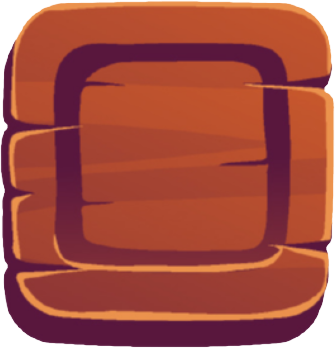
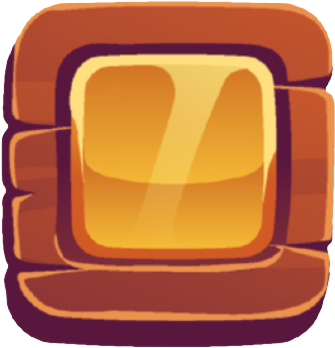
interface buttons positioned and css adjusted short playGame function added

diff --git a/style/menu.css b/style/menu.css
@@ -6,15 +6,30 @@
   flex-direction: column;
 }
 
-.title-container {
-  position: absolute;
-  top: 16px;
-  left: 16px;
+.menu-container {
+  display: flex;
+  flex-direction: column;
+  justify-content: space-between;
+  align-items: flex-start;
   z-index: 20;
+  height: 423px;
+}
+
+.play-container {
+  margin: 70px 0px 0px 70px;
+
+}
+
+.info-container {
+  display: flex;
+  justify-content: center;
+  align-items: center;
+  flex-direction: column;
+  margin: 8px;
+  gap: 16px;
 }
 
 .iface-overlay {
-  position: absolute;
   max-width: 960px;
   width: 100%;
   max-height: 540px;
@@ -34,34 +49,57 @@
   height: 100vh;
 }
 
-.f-screen-button {
-  position: absolute;
+.titleSign {
+  background-image: url('../img/interface/overlay/titleSign.png');
+  background-position: center;
+  background-repeat: no-repeat;
+  background-size: cover;
+  width: 274px;
+  height: 100px;
+  display: flex;
+  justify-content: center;
+  align-items: center;
+  margin: 8px;
+}
+
+.iface-btn {
   background-image: url('../img/interface/overlay/fullscreen_btn.png');
   background-position: center;
   background-repeat: no-repeat;
   background-size: cover;
-  width: 80px;
-  height: 80px;
-  top: 25px;
-  right: 25px;
   z-index: 20;
   cursor: pointer;
   border: none;
   background-color: transparent;
 }
 
-.f-screen-button span {
-  position: absolute;
-  right: 0;
-  left: 0;
-  bottom: -24px;
-}
-
-.f-screen-button:hover {
+.iface-btn:hover {
   transform: scale(1.1);
 }
 
-.f-screen-button:focus {
-  outline: 2px solid #65e8ef;
-  border-radius: 16px;
+.f-screen-btn {
+  position: absolute;
+  background-image: url('../img/interface/overlay/fullscreen_btn.png');
+  width: 60px;
+  height: 60px;
+  top: 8px;
+  right: 8px;
+}
+
+.play-btn {
+  background-image: url('../img/interface/overlay/play_btn.png');
+  width: 120px;
+  height: 140px;
+}
+
+.control-btn {
+  background-image: url('../img/interface/overlay/control_btn.png');
+  width: 60px;
+  height: 60px;
+}
+
+.info-btn {
+  background-image: url('../img/interface/overlay/info_btn.png');
+  width: 60px;
+  height: 60px;
 }

diff --git a/index.html b/index.html
@@ -28,13 +28,21 @@
 <body onload="init()">
 
   </div>
-    <button id="toggleFullScreen" class="f-screen-button" onclick="fullscreen()">
-      <span>Fullscreen</span>
-    </button>
   <div class="game-container" id="gameContainer">
     <div id="iface" class="iface-overlay">
-      <div id="titleContainer" class="title-container">
+      <div class="titleSign">
         <h1 id="title">Sharkie</h1>
+      </div>
+      <button id="toggleFullScreen" class="iface-btn f-screen-btn" onclick="fullscreen()">
+      </button>
+      <div id="menuContainer" class="menu-container">
+        <div class="play-container">
+          <button class="iface-btn play-btn" onclick="playGame()"></button>
+        </div>
+        <div class="info-container">
+          <button class="iface-btn control-btn"></button>
+          <button class="iface-btn info-btn"></button>
+        </div>
       </div>
     </div>
     <canvas id="canvas" width="960" height="540"></canvas>

diff --git a/js/game.js b/js/game.js
@@ -8,6 +8,18 @@ function init() {
   world = new World(canvas, keyboard);
 }
 
+function playGame() {
+  world.gameStarted = true;
+  removeOverlay();
+}
+
+function removeOverlay() {
+  const ifaceContainer = document.getElementById('iface');
+  if (ifaceContainer) {
+    ifaceContainer.classList.add('d-none');
+  }
+}
+
 function fullscreen() {
   let fullscreen = document.getElementById('gameContainer');
   let canvas = document.getElementById('canvas');

diff --git a/style/global.css b/style/global.css
@@ -40,7 +40,7 @@ canvas {
 h1 {
   color: #65e8ef;
   z-index: 10;
-  font-size: 64px;
+  font-size: 48px;
   letter-spacing: 4px;
   text-shadow: 4px 4px 6px rgba(0,0,0,0.5);
 }
@@ -53,6 +53,10 @@ span{
 
 button{
   font-family: inherit;
+}
+
+.d-none{
+  display: none;
 }
 
 @media screen and (max-width:960px){

diff --git a/js/world/world.class.js b/js/world/world.class.js
@@ -1,5 +1,6 @@
 class World {
   character = new Character();
+  gameStarted = false;
   level = level1;
   canvas;
   ctx;
